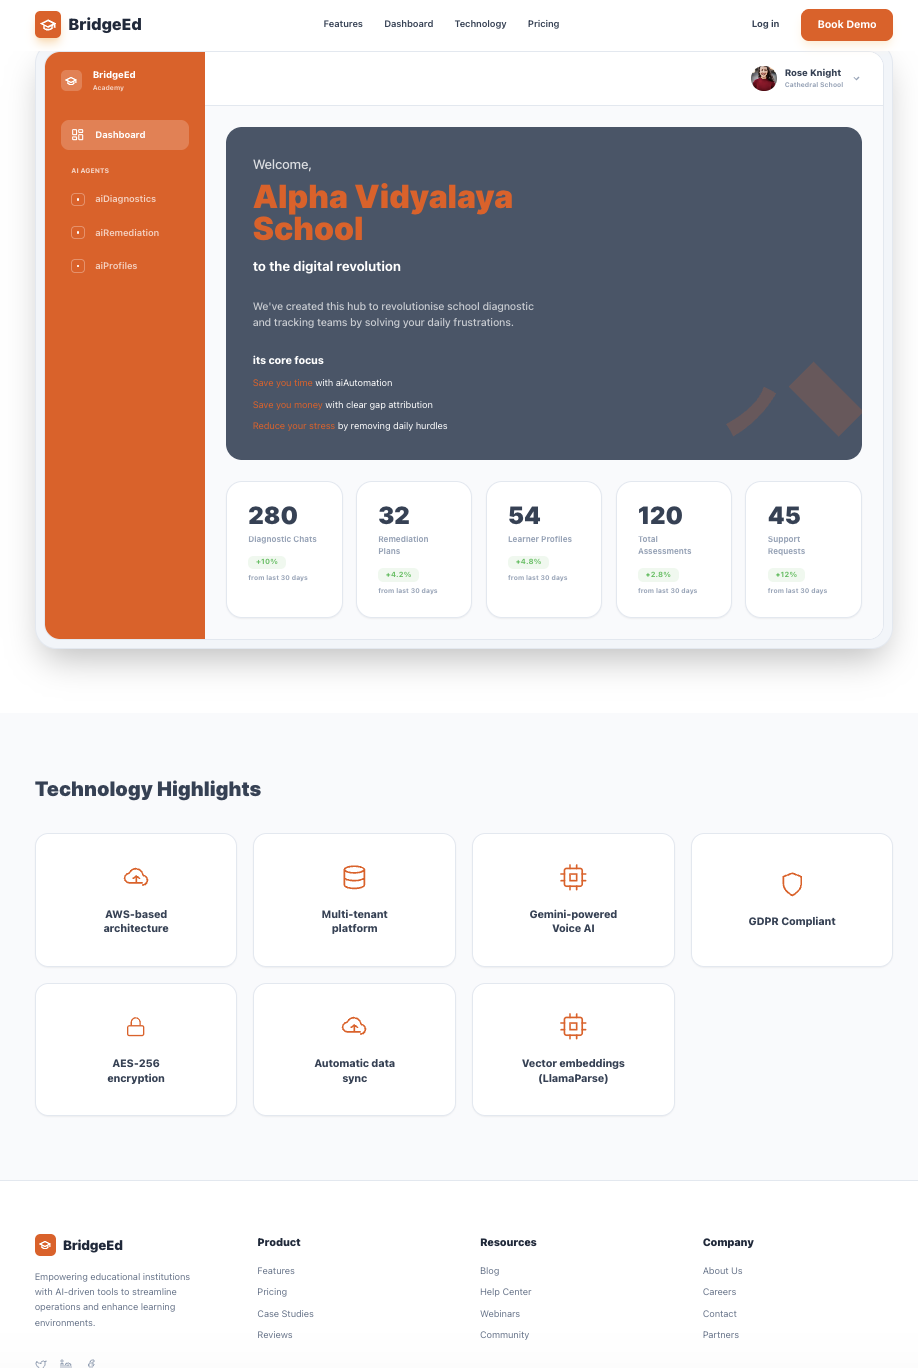
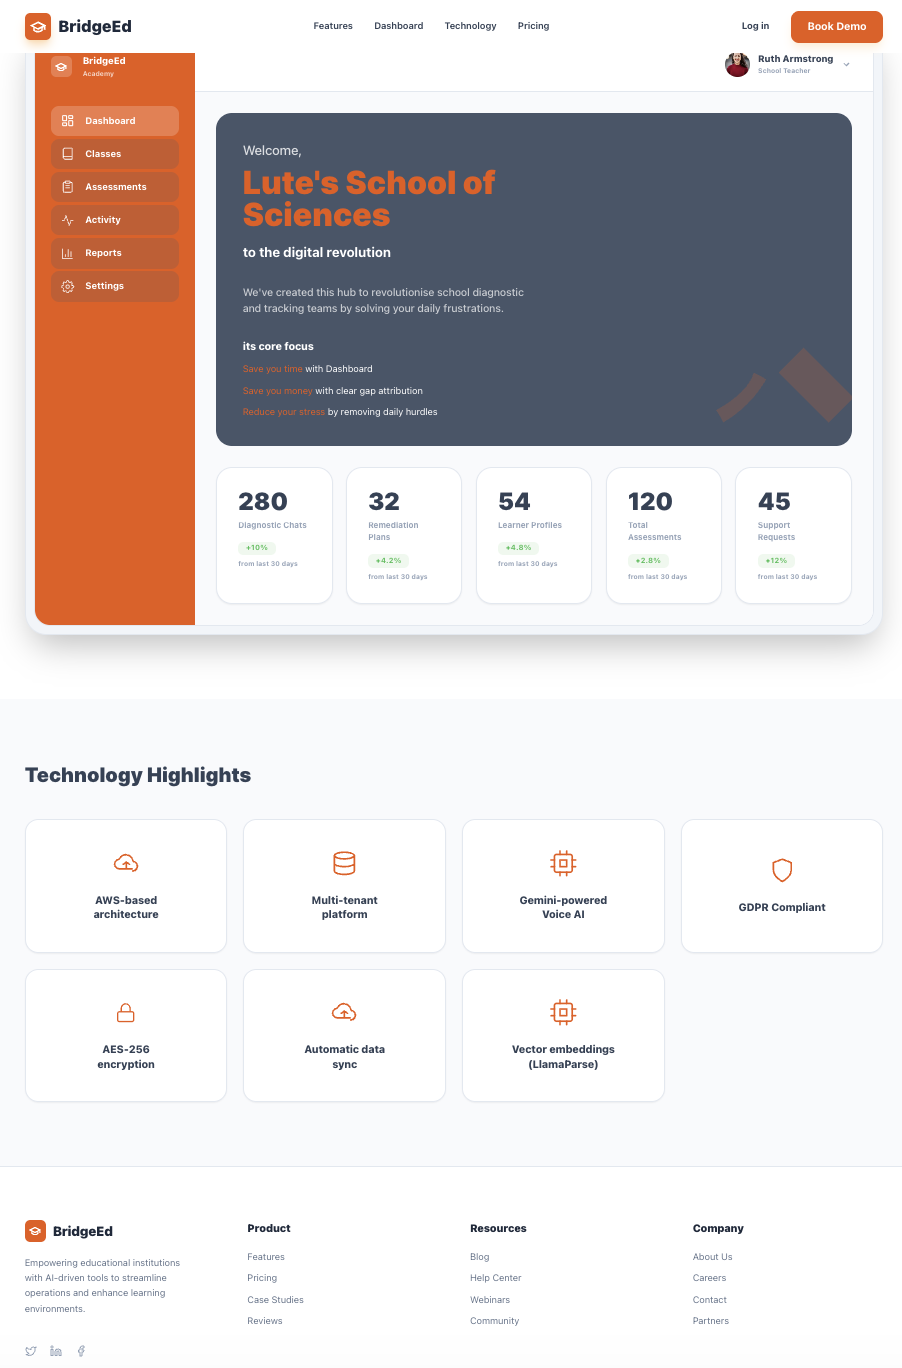
refactor (landing) - refined landing page

diff --git a/apps/web/src/features/landing/pages/LandingPage.tsx b/apps/web/src/features/landing/pages/LandingPage.tsx
@@ -12,6 +12,7 @@ import {
   Badge,
   Avatar
 } from "@mantine/core";
+import { IconActivity, IconBook, IconClipboard, IconReports, IconSettings } from "../../dashboard/components/DashboardLayout";
 
 // --- Icons (Lucide-style) ---
 const IconPlay = () => (
@@ -298,31 +299,38 @@ export const LandingPage = (): JSX.Element => {
                         Dashboard
                       </Text>
                     </Group>
-                    <Text
-                      c="white"
-                      opacity={0.7}
-                      fz={10}
-                      fw={800}
-                      tt="uppercase"
-                      mt={24}
-                      mb={12}
-                      className="px-4"
-                    >
-                      AI Agents
-                    </Text>
-                    {["aiDiagnostics", "aiRemediation", "aiProfiles"].map((item) => (
-                      <Group
-                        key={item}
-                        className="px-4 py-3 text-white/70 hover:bg-white/10 rounded-xl transition-colors"
-                      >
-                        <Box className="w-5 h-5 rounded-md border border-white/30 flex items-center justify-center">
-                          <Box className="w-1 h-1 rounded-full bg-white" />
-                        </Box>
-                        <Text fz="sm" fw={600}>
-                          {item}
-                        </Text>
-                      </Group>
-                    ))}
+                    <Group className="bg-gray-600/20 px-4 py-3 rounded-xl text-white">
+                     <IconBook className="w-5 h-5"/>
+                      <Text fz="sm" fw={700}>
+                        Classes
+                      </Text>
+                    </Group>
+                    <Group className="bg-gray-600/20 px-4 py-3 rounded-xl text-white">
+                      <IconClipboard className="w-5 h-5"/>
+                      <Text fz="sm" fw={700}>
+                        Assessments
+                      </Text>
+                    </Group>
+                    <Group className="bg-gray-600/20 px-4 py-3 rounded-xl text-white">
+                      <IconActivity className="w-5 h-5"/>
+                      <Text fz="sm" fw={700}>
+                        Activity
+                      </Text>
+                    </Group>
+                    <Group className="bg-gray-600/20 px-4 py-3 rounded-xl text-white">
+                      <IconReports className="w-5 h-5"/>
+                      <Text fz="sm" fw={700}>
+                        Reports
+                      </Text>
+                    </Group>
+                    <Group className="bg-gray-600/20 px-4 py-3 rounded-xl text-white">
+                      <IconSettings className="w-5 h-5"/>
+                      <Text fz="sm" fw={700}>
+                        Settings
+                      </Text>
+                    </Group>
+                
+                
                   </div>
                 </div>
 
@@ -337,10 +345,10 @@ export const LandingPage = (): JSX.Element => {
                       />
                       <Stack gap={0}>
                         <Text fw={800} fz="sm">
-                          Rose Knight
+                          Ruth Armstrong
                         </Text>
                         <Text c="#94a3b8" fz={10} fw={700}>
-                          Cathedral School
+                          School Teacher
                         </Text>
                       </Stack>
                       <svg
@@ -368,7 +376,7 @@ export const LandingPage = (): JSX.Element => {
                           Welcome,
                         </Text>
                         <Title order={2} className="text-5xl font-black mb-4">
-                          <span className="text-[#ea580c]">Alpha Vidyalaya School</span>
+                          <span className="text-[#ea580c]">Lute's School of Sciences</span>
                         </Title>
                         <Text fz="xl" fw={700} mb="xl">
                           to the digital revolution
@@ -384,7 +392,7 @@ export const LandingPage = (): JSX.Element => {
                         <Stack gap="xs">
                           <Text fz="sm">
                             <span className="text-[#ea580c] fw-bold">Save you time</span> with
-                            aiAutomation
+                            Dashboard
                           </Text>
                           <Text fz="sm">
                             <span className="text-[#ea580c] fw-bold">Save you money</span> with

diff --git a/apps/web/src/features/dashboard/components/DashboardLayout.tsx b/apps/web/src/features/dashboard/components/DashboardLayout.tsx
@@ -34,7 +34,7 @@ type NavItem = {
 };
 
 // --- Modern 1.5px Stroke Icons ---
-const IconDashboard = ({ className }: IconProps): JSX.Element => (
+export const IconDashboard = ({ className }: IconProps): JSX.Element => (
   <svg
     className={className}
     fill="none"
@@ -51,7 +51,7 @@ const IconDashboard = ({ className }: IconProps): JSX.Element => (
   </svg>
 );
 
-const IconBook = ({ className }: IconProps): JSX.Element => (
+export const IconBook = ({ className }: IconProps): JSX.Element => (
   <svg
     className={className}
     fill="none"
@@ -65,7 +65,7 @@ const IconBook = ({ className }: IconProps): JSX.Element => (
   </svg>
 );
 
-const IconClipboard = ({ className }: IconProps): JSX.Element => (
+export const IconClipboard = ({ className }: IconProps): JSX.Element => (
   <svg
     className={className}
     fill="none"
@@ -82,7 +82,7 @@ const IconClipboard = ({ className }: IconProps): JSX.Element => (
   </svg>
 );
 
-const IconActivity = ({ className }: IconProps): JSX.Element => (
+export const IconActivity = ({ className }: IconProps): JSX.Element => (
   <svg
     className={className}
     fill="none"
@@ -96,7 +96,7 @@ const IconActivity = ({ className }: IconProps): JSX.Element => (
   </svg>
 );
 
-const IconReports = ({ className }: IconProps): JSX.Element => (
+export const IconReports = ({ className }: IconProps): JSX.Element => (
   <svg
     className={className}
     fill="none"
@@ -113,7 +113,7 @@ const IconReports = ({ className }: IconProps): JSX.Element => (
   </svg>
 );
 
-const IconSettings = ({ className }: IconProps): JSX.Element => (
+export const IconSettings = ({ className }: IconProps): JSX.Element => (
   <svg
     className={className}
     fill="none"
